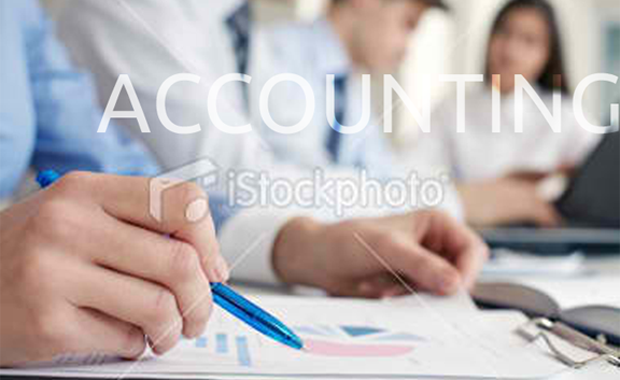
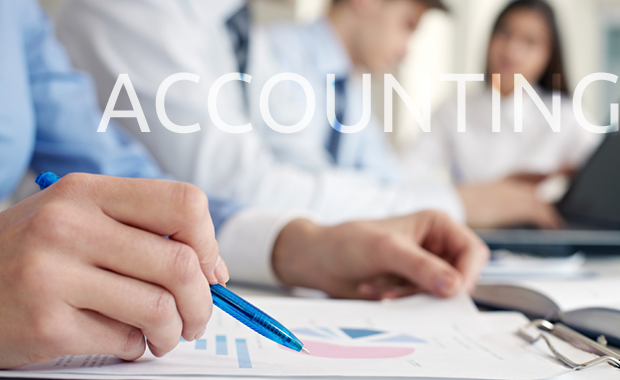
tasks
1. update banner images
2. fix images alignment (center); block
3. change body text to #515151 (darker gray); also Roddy's Rant box (wag
na kasama footer)

diff --git a/blog/afpglobal/css/styles.css b/blog/afpglobal/css/styles.css
@@ -115,7 +115,7 @@ html {
 p, li
 {
     line-height: 23px;
-    color: #8d8d8d;
+    color: #515151;
 }
 
 a
@@ -219,7 +219,8 @@ hr.hard
 {    
     margin-top: 4px;
     display:block;
-    width: 100%;
+    margin-left: auto;
+    margin-right: auto;
 }
 
 .content-section h4
@@ -379,6 +380,12 @@ img.header-img
     margin: 20px 0;
 }
 
+.marketing img
+{
+    display: block;
+    margin: 0 auto;
+}
+
 ul.site-menu,
 .sidebar ul,
 ul.calendar-list {    
@@ -429,7 +436,6 @@ ul.site-menu li img
 {
     text-transform:uppercase;
 }
-
 
 #slides #nav {
     text-align: center;
